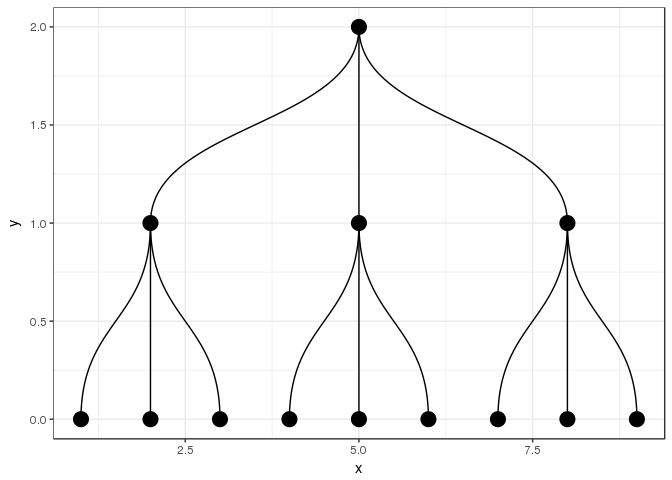
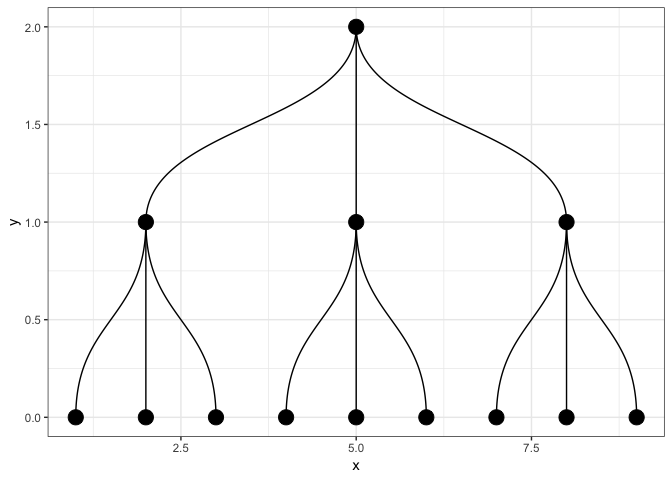
Knit README.Rmd to md

diff --git a/README.md b/README.md
@@ -1,12 +1,19 @@
 
+[![Build
+Status](https://travis-ci.org/ukgovdatascience/orgsurveyr.svg?branch=master)](https://travis-ci.org/ukgovdatascience/orgsurveyr)
+
 <!-- README.md is generated from README.Rmd. Please edit that file -->
-orgsurveyr
-==========
 
-The goal of `orgsurveyr` is to facilitate the use of [Thomas Lin Pedersen's](https://www.data-imaginist.com) excellent [`tidygraph`](https://github.com/thomasp85/tidygraph) and [`ggraph`](https://github.com/thomasp85/ggraph) packages with organisational information used by many Human Resources departments, in particular employee surveys.
+# orgsurveyr
 
-Installation
-------------
+The goal of `orgsurveyr` is to facilitate the use of [Thomas Lin
+Pedersen’s](https://www.data-imaginist.com) excellent
+[`tidygraph`](https://github.com/thomasp85/tidygraph) and
+[`ggraph`](https://github.com/thomasp85/ggraph) packages with
+organisational information used by many Human Resources departments, in
+particular employee surveys.
+
+## Installation
 
 You can install orgsurveyr from github with:
 
@@ -15,10 +22,11 @@ You can install orgsurveyr from github with:
 devtools::install_github("ukgovdatascience/orgsurveyr", build_vignettes = TRUE)
 ```
 
-Example - ggraph/tidygraph
---------------------------
+## Example - ggraph/tidygraph
 
-An organisation is a very basic type of network known as a tree. The [`tidygraph`](https://github.com/thomasp85/tidygraph) package lets us simulate and represent a tree structure as follows:
+An organisation is a very basic type of network known as a tree. The
+[`tidygraph`](https://github.com/thomasp85/tidygraph) package lets us
+simulate and represent a tree structure as follows:
 
 ``` r
 tg <- tidygraph::create_tree(13,3) 
@@ -38,19 +46,25 @@ tg
 #> # ... with 9 more rows
 ```
 
-The [`ggraph`](https://github.com/thomasp85/ggraph) package can be used to plot networks with the familiar [`ggplot2`](http://ggplot2.tidyverse.org) syntax. Below the simulated organisation is plotted as a dendrogram:
+The [`ggraph`](https://github.com/thomasp85/ggraph) package can be used
+to plot networks with the familiar
+[`ggplot2`](http://ggplot2.tidyverse.org) syntax. Below the simulated
+organisation is plotted as a dendrogram:
 
 ``` r
   ggraph(tg, 'dendrogram') + geom_edge_diagonal() + 
   geom_node_point(size=5) + theme_bw()
 ```
 
-![](man/figures/README-example-2-1.png)
+![](man/figures/README-example-2-1.png)<!-- -->
 
-Example - orgsurveyr
---------------------
+## Example - orgsurveyr
 
-The `orgsurveyr` package provides detailed vignettes, convenience functions and example data to help HR analysts make use of the [`ggraph`](https://github.com/thomasp85/ggraph) and [`tidygraph`](https://github.com/thomasp85/tidygraph) packages in the analysis of organisation data.
+The `orgsurveyr` package provides detailed vignettes, convenience
+functions and example data to help HR analysts make use of the
+[`ggraph`](https://github.com/thomasp85/ggraph) and
+[`tidygraph`](https://github.com/thomasp85/tidygraph) packages in the
+analysis of organisation data.
 
 A realistic organisation can be simulated and plotted:
 
@@ -60,9 +74,10 @@ tg2 <- create_realistic_org(4,3, prob=0.3)
 plot_org(tg2)
 ```
 
-![](man/figures/README-example-3-1.png)
+![](man/figures/README-example-3-1.png)<!-- -->
 
-Individual level data also be simulated first by simulating the number of individuals in unit:
+Individual level data also be simulated first by simulating the number
+of individuals in unit:
 
 ``` r
 tg3 <- simulate_unit_size(tg2)
@@ -91,7 +106,8 @@ tg3
 #> # ... with 34 more rows
 ```
 
-Followed by simulating the individuals and any additional variables. The commands can be piped as per tidyverse convention:
+Followed by simulating the individuals and any additional variables. The
+commands can be piped as per tidyverse convention:
 
 ``` r
 tg3_individuals_df <- tg3 %>% 
@@ -114,7 +130,10 @@ tg3_individuals_df
 #> # ... with 136 more rows
 ```
 
-The individual data is aggregated at the unit level. This can be either be just those individuals associated with an organisational unit or (more usefully) a cumulative aggregation involving all individuals that are part of that unit and any units below it in the organisation:
+The individual data is aggregated at the unit level. This can be either
+be just those individuals associated with an organisational unit or
+(more usefully) a cumulative aggregation involving all individuals that
+are part of that unit and any units below it in the organisation:
 
 ``` r
 summary_df <- calc_summary_df(tg=tg3, df=tg3_individuals_df, 
@@ -143,11 +162,14 @@ Finally the aggregated data can be plotted on the dendrogram:
 plot_org(tg3, fill_var = 'test_var', summary_df)
 ```
 
-![](man/figures/README-example-7-1.png)
+![](man/figures/README-example-7-1.png)<!-- -->
 
-Further reading/viewing
-=======================
+# Further reading/viewing
 
--   [Data Imaginist](https://www.data-imaginist.com) - Thomas Lin Pedersen's blog
--   ['Tidying up your network analysis with tidygraph and ggraph'](https://www.rstudio.com/resources/videos/tidying-up-your-network-analysis-with-tidygraph-and-ggraph/): RStudio::conf presentation from Thomas Lin Pedersen
--   [useR 2018 Interview with Thomas Lin Pedersen](https://user2018.r-project.org/blog/2018/04/18/interview-with-thomas-lin-pedersen/)
+  - [Data Imaginist](https://www.data-imaginist.com) - Thomas Lin
+    Pedersen’s blog
+  - [‘Tidying up your network analysis with tidygraph and
+    ggraph’](https://www.rstudio.com/resources/videos/tidying-up-your-network-analysis-with-tidygraph-and-ggraph/):
+    RStudio::conf presentation from Thomas Lin Pedersen
+  - [useR 2018 Interview with Thomas Lin
+    Pedersen](https://user2018.r-project.org/blog/2018/04/18/interview-with-thomas-lin-pedersen/)
